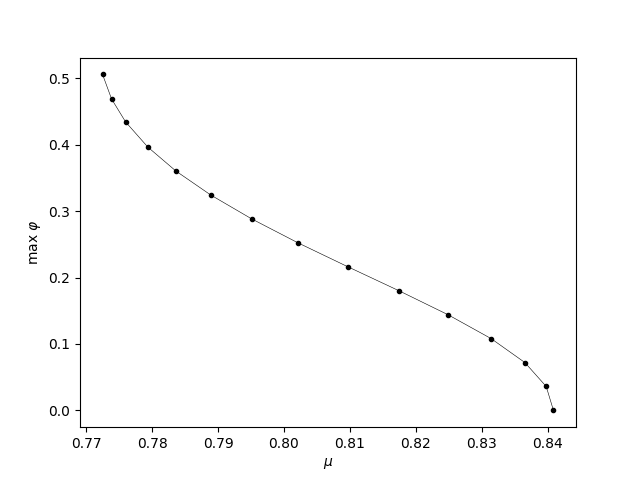
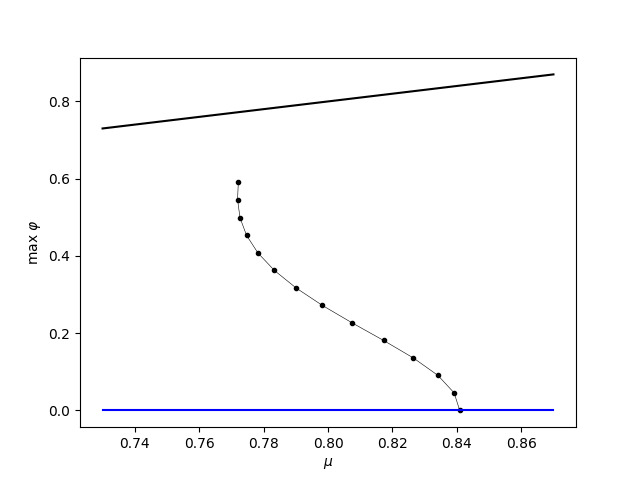
new figures to article

diff --git a/bifurcation_fdp.py b/bifurcation_fdp.py
@@ -39,11 +39,11 @@ def FDP_system(sol, height, P, s, symb_coeffs, int_const):
 
 if __name__ == "__main__":
     s = 0.5
-    P = 0.5 * upper_bound_P(s)
-    N = 1000
+    P = 0.3 * upper_bound_P(s)
+    N = 1500
     X = np.linspace(-P / 2, P / 2, N, endpoint=False)
     int_const = 1
-    samples = 15
+    samples = 14
 
     impl_bif_point = lambda mu: (
         3 * const_sol(mu, int_const) * bessel_symbol((2 * np.pi) / P, s)
@@ -54,7 +54,7 @@ if __name__ == "__main__":
         np.array([(2 * np.pi * k) / P for k in range(0, (N // 2) + 1)]), s
     )
     min_height = const_sol(bif_point, int_const) - bif_point
-    H = np.linspace(0, 0.6 * min_height, samples)
+    H = np.linspace(0, 1 * min_height, samples)
     wavespeeds, max_heights = np.zeros(samples), np.zeros(samples)
     wavespeed_guess = np.array([bif_point])
 
@@ -67,18 +67,25 @@ if __name__ == "__main__":
         varphi = const_sol(solution[-1], int_const) - solution[:-1]
         wavespeeds[i] = solution[-1]
         max_heights[i] = np.max(varphi)
-        wavespeed_guess = np.array([solution[-1]]) + 0.5
+        wavespeed_guess = np.array([solution[-1]]) + (solution[-1] - solution[-2])
         plt.plot(X, varphi, "k", linewidth=0.7)
 
     plt.ylabel(r"$\varphi (x)$")
     plt.xlabel(r"$x$")
-    plt.savefig("bifurcation_fdp.png")
+    # plt.savefig("bifurcation_fdp.png")
     plt.show()
     plt.plot(wavespeeds, max_heights, "k", linewidth=0.4)
     plt.plot(wavespeeds, max_heights, "k.", linewidth=0.7)
-    # plt.plot(wavespeeds, wavespeeds, "r")
-    # plt.plot(wavespeeds, const_sol(wavespeeds, int_const), "b")
+
+    lower, upper = 2.1, 2.8
+    interval = np.linspace(lower, upper, 50)
+    plt.plot(interval, interval, "k")
+    plt.plot(
+        interval,
+        const_sol(interval, int_const),
+        "b",
+    )
     plt.xlabel(r"$\mu$")
     plt.ylabel(r"$\max \ \varphi$")
-    plt.savefig("bifurcation_branch_fdp.png")
+    # plt.savefig("bifurcation_branch_fdp.png")
     plt.show()

diff --git a/bifurcation_fkdv.py b/bifurcation_fkdv.py
@@ -25,20 +25,20 @@ def FKDV_system(sol, height, P, s, symb_coeffs):
 if __name__ == "__main__":
     s = 0.5
     P = 2 * np.pi
-    N = 1000
+    N = 1500
     X = np.linspace(-P / 2, P / 2, N, endpoint=False)
-    samples = 15
+    samples = 14
 
     bif_point = bessel_symbol((2 * np.pi) / P, s)
     symb_coeffs = bessel_symbol(
         np.array([(2 * np.pi * k) / P for k in range(0, (N // 2) + 1)]), s
     )
-    H = np.linspace(0, 0.6 * bif_point, samples)
+    H = np.linspace(0, 0.7 * bif_point, samples)
     wavespeeds, max_heights = np.zeros(samples), np.zeros(samples)
 
     for i in range(0, samples):
-        phi_guess = func_guess(X, H[i], P)
         wavespeed_guess = np.array([bif_point])
+        phi_guess = func_guess(X, H[i], P)
 
         F = lambda sol: FKDV_system(sol, H[i], P, s, symb_coeffs)
         solution = optimize.fsolve(
@@ -48,13 +48,16 @@ if __name__ == "__main__":
         wavespeeds[i] = solution[-1]
         max_heights[i] = np.max(solution[:-1])
         plt.plot(X, solution[:-1], "k", linewidth=0.7)
+
     plt.ylabel(r"$\varphi (x)$")
     plt.xlabel(r"$x$")
-    plt.savefig("bifurcation_fkdv.png")
+    # plt.savefig("bifurcation_fkdv.png")
     plt.show()
     plt.plot(wavespeeds, max_heights, "k", linewidth=0.4)
     plt.plot(wavespeeds, max_heights, "k.", linewidth=0.7)
+    plt.plot(np.linspace(0.73, 0.87, 50), np.linspace(0.73, 0.87, 50), "k")
+    plt.plot(np.linspace(0.73, 0.87, 50), np.zeros(50), "b")
     plt.xlabel(r"$\mu$")
     plt.ylabel(r"$\max \ \varphi$")
-    plt.savefig("bifurcation_branch_fkdv.png")
+    # plt.savefig("bifurcation_branch_fkdv.png")
     plt.show()
